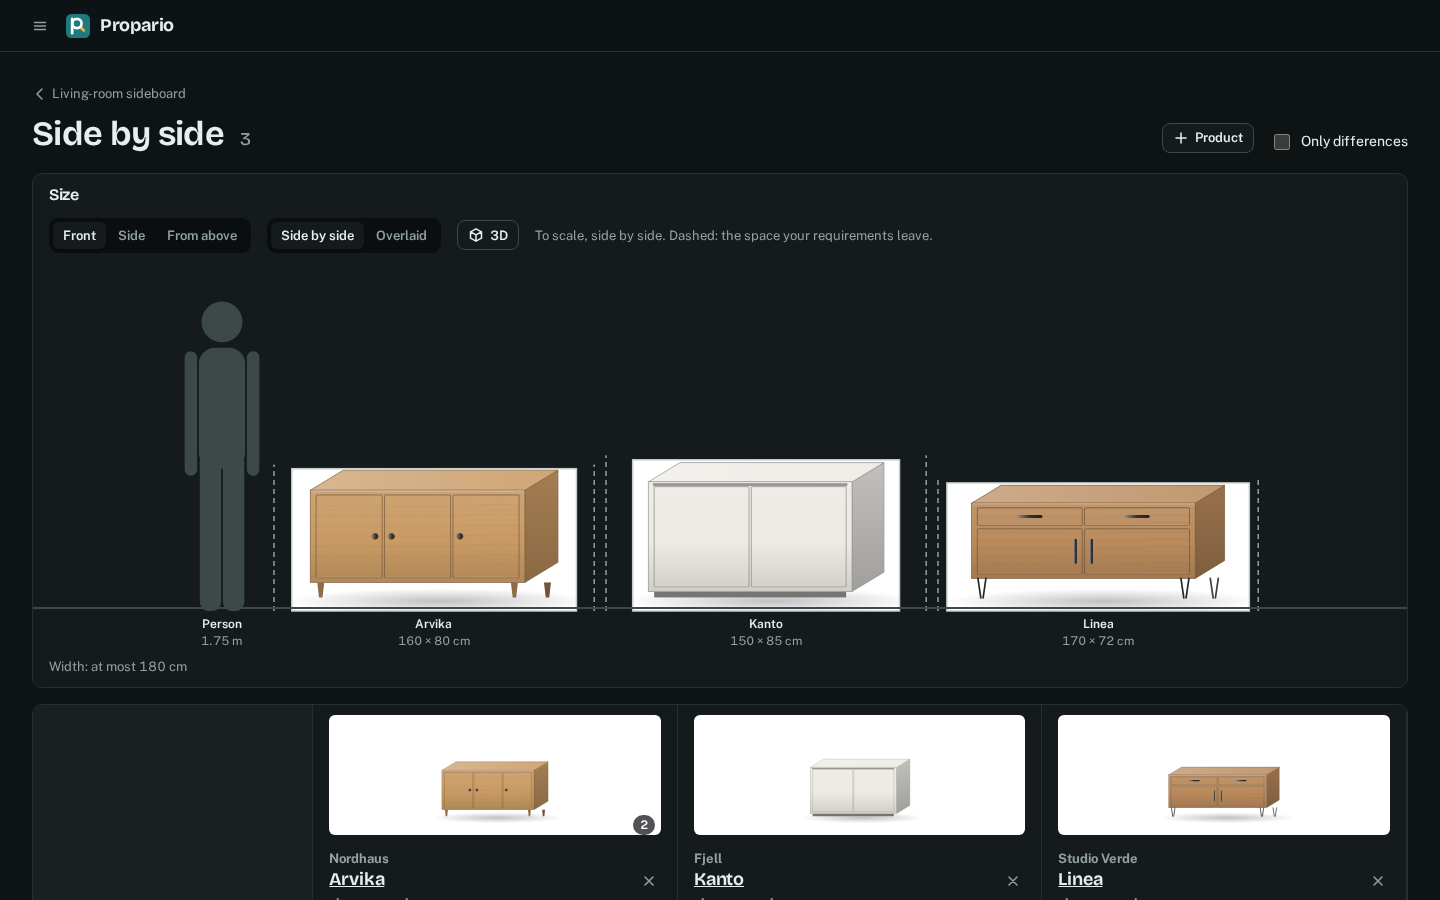
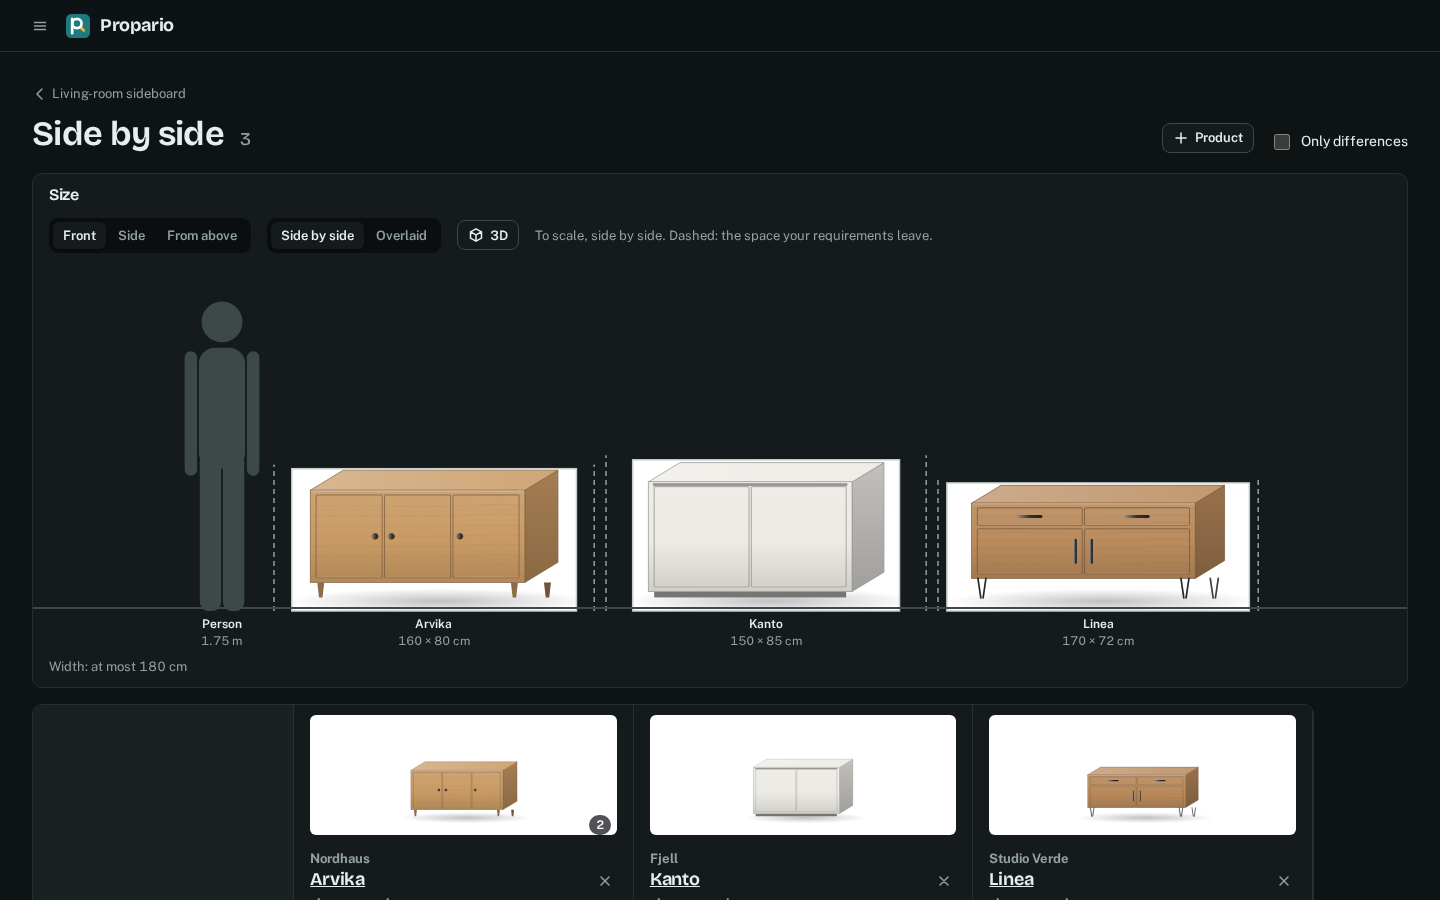
Start page filters fold on a phone; duel shows the products first
On a phone the start page folds category and status behind the filter
button, and the archive is one of the statuses instead of an extra box.
A duel opens with the drawing to scale folded, kept as one leaves it.
Side by side and in a duel a product's column grows to 360 px at most.

Changed region(s): [[0.3438, 0.7778, 0.9688, 0.9956], [0.1875, 0.7778, 0.2812, 0.9956], [0.2812, 0.84, 0.3125, 0.9022]]

diff --git a/src/pages/Home.tsx b/src/pages/Home.tsx
@@ -25,7 +25,7 @@ export function HomePage() {
   const [query, setQuery] = useState('')
   const [category, setCategory] = useState('')
   const [status, setStatus] = useState<ProjectStatus | ''>('')
-  const [showArchived, setShowArchived] = useState(false)
+  const [filtersOpen, setFiltersOpen] = useState(false)
   const [dialog, setDialog] = useState<{ project: Project | null } | null>(null)
   const navigate = useNavigate()
 
@@ -43,7 +43,7 @@ export function HomePage() {
 
   const q = query.trim().toLowerCase()
   const visible = (projects ?? [])
-    .filter((p) => (status ? p.status === status : showArchived || p.status !== 'archived'))
+    .filter((p) => (status ? p.status === status : p.status !== 'archived'))
     .filter((p) => !category || p.category === category)
     .map((p) => {
       const items = byProject.get(p.id) ?? []
@@ -53,6 +53,8 @@ export function HomePage() {
       return inProject || hits ? { p, items, hits } : null
     })
     .filter((x): x is { p: Project; items: Product[]; hits: number } => x !== null)
+
+  const activeFilters = (category ? 1 : 0) + (status ? 1 : 0)
 
   if (!projects) return <main aria-busy="true" />
 
@@ -88,33 +90,43 @@ export function HomePage() {
               <span className="sr-only">{m.common.search}</span>
               <input className="input" type="search" placeholder={m.home.searchPlaceholder} value={query} onChange={(e) => setQuery(e.target.value)} />
             </label>
-            <label>
-              <span className="sr-only">{m.home.category}</span>
-              <select className="select" value={category} onChange={(e) => setCategory(e.target.value)} style={{ width: 'auto' }}>
-                <option value="">{m.home.allCategories}</option>
-                {categories.map((c) => (
-                  <option key={c} value={c}>
-                    {c}
-                  </option>
-                ))}
-              </select>
-            </label>
-            <div className="seg" role="group" aria-label={m.field.status}>
-              <button aria-pressed={status === ''} onClick={() => setStatus('')}>
-                {m.common.all}
-              </button>
-              {PROJECT_STATUSES.map((s) => (
-                <button key={s} aria-pressed={status === s} onClick={() => setStatus(status === s ? '' : s)}>
-                  {m.status[s]}
-                </button>
-              ))}
-            </div>
-            {status === '' && (
-              <label className="check">
-                <input type="checkbox" checked={showArchived} onChange={(e) => setShowArchived(e.target.checked)} />
-                {m.home.showArchived}
+            {/* On a phone category and status fold behind the filter button, as in the products. */}
+            <button
+              type="button"
+              className="btn sm filter-toggle"
+              aria-expanded={filtersOpen}
+              aria-controls="home-filters"
+              aria-label={activeFilters ? m.filter.toggleActive(activeFilters) : m.filter.toggle}
+              title={m.filter.toggle}
+              onClick={() => setFiltersOpen(!filtersOpen)}
+            >
+              <Glyph name="filter" />
+              {activeFilters > 0 && <span className="filter-count">{activeFilters}</span>}
+            </button>
+            <div id="home-filters" className={`row filter-chips${filtersOpen ? ' open' : ''}`}>
+              <label>
+                <span className="sr-only">{m.home.category}</span>
+                <select className="select" value={category} onChange={(e) => setCategory(e.target.value)} style={{ width: 'auto' }}>
+                  <option value="">{m.home.allCategories}</option>
+                  {categories.map((c) => (
+                    <option key={c} value={c}>
+                      {c}
+                    </option>
+                  ))}
+                </select>
               </label>
-            )}
+              {/* "All" leaves the archive out; "Archived" shows it. */}
+              <div className="seg" role="group" aria-label={m.field.status}>
+                <button aria-pressed={status === ''} onClick={() => setStatus('')}>
+                  {m.common.all}
+                </button>
+                {PROJECT_STATUSES.map((s) => (
+                  <button key={s} aria-pressed={status === s} onClick={() => setStatus(status === s ? '' : s)}>
+                    {m.status[s]}
+                  </button>
+                ))}
+              </div>
+            </div>
           </div>
 
           {visible.length === 0 ? (

diff --git a/src/pages/Compare.tsx b/src/pages/Compare.tsx
@@ -31,6 +31,10 @@ interface Row {
   best?: number
 }
 
+/** The row names' column and the widest a product's column gets side by side. */
+const COMPARE_ROWHEAD = 200
+const COMPARE_MAX_COL = 360
+
 export function ComparePage() {
   const { id } = useParams()
   const [params, setParams] = useSearchParams()
@@ -43,6 +47,8 @@ export function ComparePage() {
   const [history, setHistory] = useState<Ranking[]>([])
   const [gallery, setGallery] = useState<{ product: Product; at: number } | null>(null)
   const duelMode = params.get('mode') === 'duel'
+  // In a duel the two products come first; the drawing to scale is one click away and stays as left.
+  const [sizeOpen, setSizeOpen] = useState(!duelMode)
 
   // Duels: the products that take part, in the person's order so far (src/domain/duel.ts).
   // Only the narrow choice takes part: what someone starred and what everyone likes.
@@ -93,6 +99,7 @@ export function ComparePage() {
 
   const ids = duelMode ? (pair ? [pair.left, pair.right] : []) : (params.get('ids') ?? '').split(',').filter(Boolean)
   const products = ids.map((x) => data.products.find((p) => p.id === x)).filter((p): p is Product => !!p)
+  const compareWidth = COMPARE_ROWHEAD + COMPARE_MAX_COL * products.length + 2
   const back = `/p/${data.project.id}`
   /** Products of the comparison not yet side by side, the ones still in the running first. */
   const others = data.products.filter((p) => !ids.includes(p.id)).sort((a, b) => Number(a.candidate === 'excluded') - Number(b.candidate === 'excluded'))
@@ -376,12 +383,14 @@ export function ComparePage() {
           </div>
         </div>
       )}
-      <SizeCompare products={products} data={data} />
-      <div className={`compare-wrap${duelMode ? ' duel' : ''}`}>
+      <SizeCompare products={products} data={data} open={sizeOpen} onToggle={setSizeOpen} />
+      {/* Side by side, a product's column grows to 360 px at most: on a wide screen the values stay
+          close to their names instead of spreading over the whole width. */}
+      <div className={`compare-wrap${duelMode ? ' duel' : ''}`} style={{ maxWidth: compareWidth }}>
         <table className={`compare${duelMode ? ' duel' : ''}`}>
           {!duelMode && (
             <colgroup>
-              <col style={{ width: 200 }} />
+              <col style={{ width: COMPARE_ROWHEAD }} />
               {products.map((p) => (
                 <col key={p.id} style={{ width: 260 }} />
               ))}
@@ -478,7 +487,7 @@ export function ComparePage() {
       </div>
       {duelMode && mine && pair && (
         // The choice sits at the bottom of the screen, where the thumb is – like when swiping.
-        <div className="duel-actions" role="group" aria-label={m.duel.question}>
+        <div className="duel-actions" role="group" aria-label={m.duel.question} style={{ maxWidth: compareWidth }}>
           {/* ✓ = take this one: a choice, not a swipe. "Later" sits quietly between the two. */}
           <div className="duel-choices">
             <button type="button" className="btn primary" onClick={() => choose('left')} aria-keyshortcuts="ArrowLeft">

diff --git a/e2e/journey.spec.ts b/e2e/journey.spec.ts
@@ -847,6 +847,11 @@ test('Ada moves rows and decides by swiping', async () => {
   await expect(page.getByText('1 duel to first place')).toBeVisible()
   const [leftName, rightName] = await page.locator('.duel-choices .duel-name').allTextContents()
   await accessible(page, 'duel')
+  // The two products come first: the drawing to scale waits folded, and stays as one leaves it.
+  await expect(page.locator('details.size-compare[open]')).toHaveCount(0)
+  // A product's column grows to 360 px at most, so the values stay near their names.
+  for (const w of await page.locator('table.compare thead th[scope=col]').evaluateAll((ths) => ths.map((th) => th.getBoundingClientRect().width)))
+    expect(w).toBeLessThanOrEqual(361)
   // With two products there is no other duel to play first: nothing to skip.
   await expect(page.getByRole('button', { name: 'Later' })).toHaveCount(0)
   await page.keyboard.press('ArrowRight')
@@ -1107,6 +1112,13 @@ test('Ada moves rows and decides by swiping', async () => {
     .click()
   await expect(page.getByRole('button', { name: 'Delete', exact: true })).toBeInViewport({ ratio: 1 })
   await page.keyboard.press('Escape')
+  // Category and status fold behind the filter button; "Archived" is one of the statuses.
+  const statuses = page.getByRole('group', { name: 'Status' })
+  await expect(statuses).toBeHidden()
+  await page.getByRole('button', { name: /^Filter/ }).click()
+  await expect(statuses.getByRole('button', { name: 'Archived' })).toBeVisible()
+  await expect(page.getByRole('checkbox', { name: 'Show archived' })).toHaveCount(0)
+  await accessible(page, 'start page filters on a phone')
   await page.setViewportSize(wide)
   await page
     .getByRole('link', { name: /\d+ new/ })

diff --git a/src/pages/project/SizeCompare.tsx b/src/pages/project/SizeCompare.tsx
@@ -51,7 +51,18 @@ const toneClass = (t: Tone) => (t === 'single' ? 'single' : t === 0 ? 't0' : `t$
  * (src/pages/project/PictureViewDialog.tsx) fill their outline; the main picture stands for the
  * front only when its shape matches the measurements.
  */
-export function SizeCompare({ products, data }: { products: Product[]; data: ProjectData }) {
+/** `open` and `onToggle` let the page keep it open or closed across its products (the duel's pairs). */
+export function SizeCompare({
+  products,
+  data,
+  open = true,
+  onToggle,
+}: {
+  products: Product[]
+  data: ProjectData
+  open?: boolean
+  onToggle?: (open: boolean) => void
+}) {
   const { m, fmt } = useI18n()
   const fields = useMemo(() => sizeFields(data.properties), [data.properties])
   const limits = useMemo(() => sizeLimits(data.rules, fields), [data.rules, fields])
@@ -132,7 +143,7 @@ export function SizeCompare({ products, data }: { products: Product[]; data: Pro
   const frame = { view, k, height: stage, acrossMax, upMax, y }
 
   return (
-    <details className="size-compare" open>
+    <details className="size-compare" open={open} onToggle={(e) => onToggle?.(e.currentTarget.open)}>
       <summary>
         <h2>{m.size.title}</h2>
       </summary>

diff --git a/src/i18n/de.ts b/src/i18n/de.ts
@@ -203,7 +203,6 @@ export const de: Messages = {
     searchPlaceholder: 'Vergleiche und Produkte durchsuchen …',
     category: 'Kategorie',
     allCategories: 'Alle Kategorien',
-    showArchived: 'Archivierte zeigen',
     productCount: (n) => (n === 1 ? '1 Produkt' : `${n} Produkte`),
     chosen: 'Gewählt',
     favorite: 'Favorit',

diff --git a/src/i18n/en.ts b/src/i18n/en.ts
@@ -204,7 +204,6 @@ export const en = {
     searchPlaceholder: 'Search comparisons and products…',
     category: 'Category',
     allCategories: 'All categories',
-    showArchived: 'Show archived',
     productCount: (n: number) => (n === 1 ? '1 product' : `${n} products`),
     chosen: 'Chosen',
     favorite: 'Favourite',

diff --git a/CHANGELOG.md b/CHANGELOG.md
@@ -25,6 +25,12 @@ for fixes. See "Releases" in [CONTRIBUTING.md](CONTRIBUTING.md).
 - Fixed: on a phone the requirements kept the empty handle column in view and squeezed the
   description into a sliver, which made rows very tall. The handle folds away now, priority and
   requirement stay in view, in the fields the name does.
+- Changed: on the start page a phone folds category and status behind the filter button; the
+  “Show archived” box is gone, the status “Archived” shows them.
+- Changed: a duel shows the two products first; the drawing to scale waits folded under “Size” and
+  stays open once opened.
+- Changed: side by side, a product's column grows to 360 px at most, so on a wide screen the values
+  stay near their names.
 - Fixed: below the side-by-side table the page went on with empty space. Scrolled down, the
   table's box now fills the screen below the top bar and the page ends there.
 - Fixed: a duplicated or imported comparison lost its price reference, and its duel rankings

diff --git a/docs/user-guide.md b/docs/user-guide.md
@@ -127,8 +127,9 @@ their judgements together.
 - **Swipe:** go through the products one by one and like them or not – swipe, or use the arrow
   keys (↓ for neutral). At the end you see what everyone likes.
 - **Duel:** two at a time – which is better? After a few duels your ranking stands. Duels are
-  between your favourites and what everyone likes. Everyone's rankings become the **joint
-  ranking**; its first place can become the decision.
+  between your favourites and what everyone likes. The drawing to scale waits folded under
+  **Size**. Everyone's rankings become the **joint ranking**; its first place can become the
+  decision.
 - **Side by side:** select products in the table and **Compare**. Best values are marked,
   _Only differences_ hides what is the same, and **Size** draws the products to scale next to
   a person and the space your requirements leave – from the front, the side or above, side by
